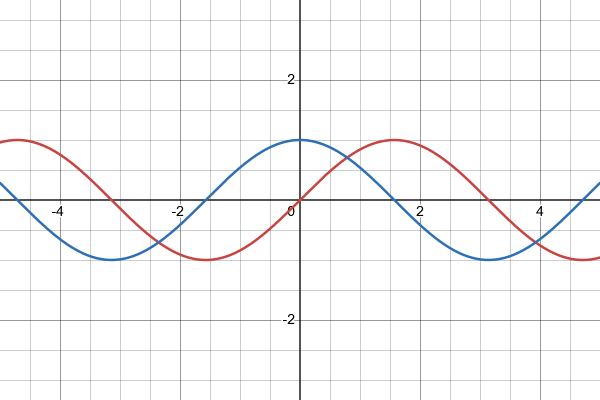
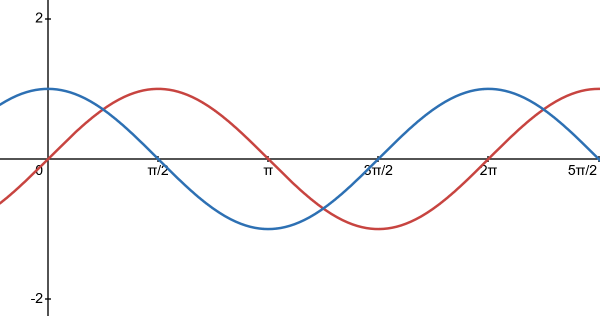
7.4 start

Changed region(s): [[0.0, 0.0, 1.0, 1.0], [0.72, 0.3133, 0.75, 0.3418]]

diff --git a/envision-algebra-2/7-4-graphing-sine-and-cosine-functions.md b/envision-algebra-2/7-4-graphing-sine-and-cosine-functions.md
@@ -23,3 +23,106 @@ course: Algebra 2 and Trig
 
 ## Graphs of a Trig Functions and Their Features
 
+This is the graph of ${f(x)=\sin x}$.
+
+> ![Graph of sin(x)](./img/7-4-sinx.png)
+>
+> **Figure 7.4.1** The graph of $\sin x$.
+{: .figure}
+
+This type of function is called a **periodic function** since the outputs repeat at regular intervals. To see where this repeating feature comes from, you just need to look at the unit circle. Since $\sin\theta = y$, when graphing $\sin x$, your output is the $y$-coordinate as the angle increases.
+
+> ![Animation of sin(x) from the unit circle.](./img/7-4-sin-animation.gif)
+>
+> **Figure 7.4.2** The graph of $\sin x$ from the unit circle.
+{: .figure}
+
+Their periodic nature makes sine waves a popular way to model real-world repeating phenomena. There is some specific terminology to describe its features, since those features relate to their real-world counterparts.
+
+### Period and Frequency
+
+The **period** of a trigonometric function is length it takes before it repeats. For $\sin x$, this is straightforward since the circle repeats after $2\pi$ radians, or $360^\circ$. So, the parent function of $\sin x$ has a period of $2\pi$.
+
+The **frequency** is simply the reciprocal of the period, so $\sin x$ has a frequency of $\frac{1}{2\pi}$. Commonly, frequency means how often something occurs, and that tracks here, too. The graph of $\sin x$ goes through one cycle every $2\pi$.
+
+### Amplitude and Midline
+
+The **amplitude** can be thought as the height of the graph, but specifically the height measured from the **midline**, the imaginary horizontal line splitting the graph in half. The parent function of $\sin x$ has an amplitude of $1$, which again matches up with the unit circle since the highest point is $(0,1)$ and the lowest is $(0,-1)$.
+
+## Transforming $\sin x$
+
+Of course we're going to transform these. It's essential for modeling anything, which we'll get to.
+
+We've talked about period and amplitude, but those are just horizontal and vertical stretches with fancy names. This means your old rules still apply.
+
+### Example 1
+
+> What is the amplitude of $f(x)=3\sin x$?
+{: .example}
+
+For a trigonometric function, amplitude is the verticality, and the default is $1$. Here, the whole function is being multiplied by $3$, so the amplitude is now $3$.
+
+Yep, that easy.
+
+$\blacksquare$
+{: .qed}
+
+### Example 2
+
+> What is the period of $f(x) = \sin 2{x}$?
+{: .example}
+
+Period (and frequency) are not as straightforward since the default period is $2\pi$. And horizontal transformations have that pesky habit of doing the opposite of what you'd think would happen.
+
+To find the period, take your regular interval of $2\pi$ and divide by the factor with $x$, $2$ in this case.
+
+$$\begin{align}
+\frac{2\pi}{2} = \pi
+\end{align}$$
+
+Our period is $\pi$, also we can say the frequency is $\frac{1}{\pi}$.
+
+$\blacksquare$
+{: .qed}
+
+## Example 3
+
+> What is the amplitude, period, and frequency of $f(x)=\frac{3}{2}\cos 3\pi x$?
+{: .example}
+
+Woah, cosine? Good news. Nothing changes. Remember, this is all based on the unit circle, but now we are graphing how the $x$-coordinate changes as the angle increases. The graph follows the same path, just offset by a bit.
+
+> ![Graphs of sine and cosine](./img/7-4-sin-cos.png)
+>
+> **Figure 7.4.3** The graphs of $\sin x$ (red) and $\cos x$ (blue).
+{: .figure}
+
+Our default period is still $2\pi$ and the amplitude is $1$.
+
+For our function $f(x)=\frac{3}{2}\cos 3\pi x$, amplitude is the factor out front, so $\frac{3}{2}$. The period is $2\pi$ divided by the factor with the $x$.
+
+$$\begin{align}
+\frac{2\pi}{3\pi} = \frac{2}{3}
+\end{align}$$
+
+That gives us a period of $\frac{2}{3}$ and a frequency of $\frac{3}{2}$.
+
+Like any other transformation problems, make sure you graph these yourself and make sure your answers make sense.
+
+$\blacksquare$
+{: .qed}
+
+## Modeling with Trig Functions
+
+> ![Clock on a coordinate plane](./img/7-4-clock.png)
+>
+> **Figure 7.4.4** A clock on the coordinate plane.
+{: .figure}
+
+Let's make a graph that models the distance from the tip of the minute hand to the horizontal axis. We'll start at $12$, which will also double as $0$, or our starting point.
+
+Before drawing anything, it might be helpful to figure out the features. So, amplitude and either period or frequency.
+
+Amplitude is the farthest away the tip can be from the axis, and that would be pointing straight up (or down), and since the hand is 5 inches long, our amplitude is 5.
+
+Using either period or frequency will depend on your brain and the problem. For this one, it repeats every 12 hours, so that's our period.
